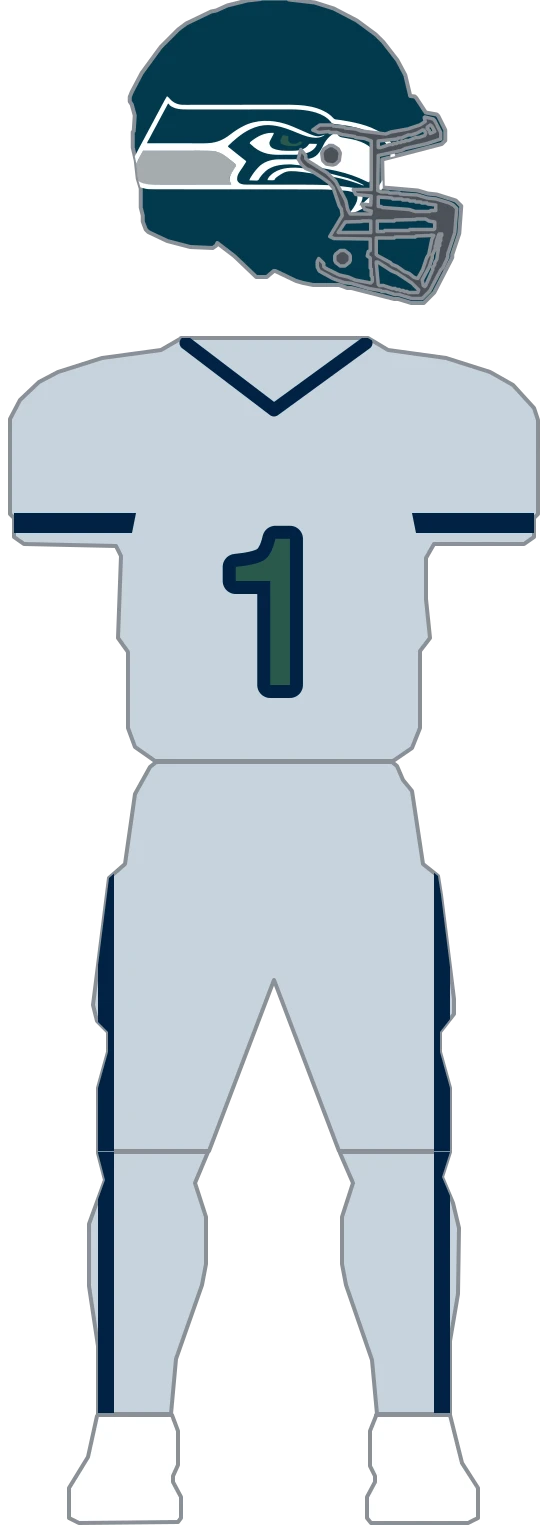
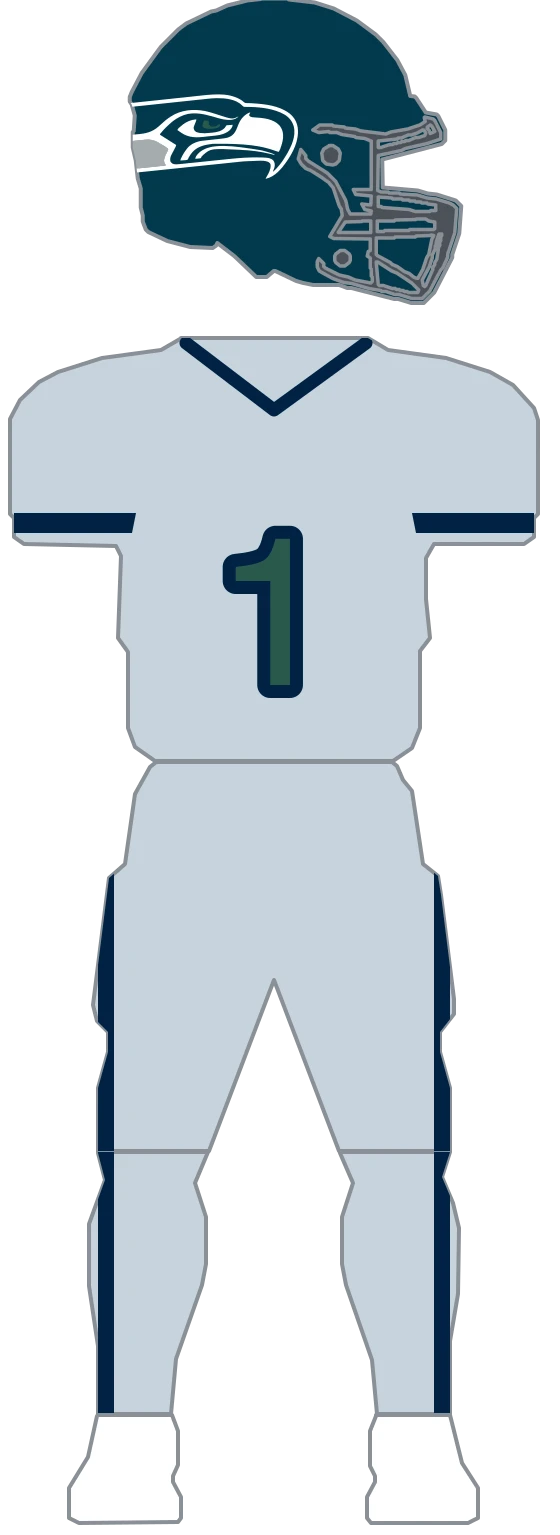
fix(uniforms): place the Seahawks decal as a wrapped mark, not a flat one
Three corrections from review, the first structural. A helmet decal wraps a
curved shell, so in a 2D side view its rear converges and disappears around the
back -- the mark is not fully visible. The previous pass scaled the whole logo
to fit inside the silhouette, which showed the entire tail and read wrong.

The mark is now authored wider than the space it occupies and overhangs the
shell's rear edge, with clip trimming it. The front anchors to a landmark
instead of a judgement: the beak tip reaches the facemask's left edge (x=476,
the min x of the facemask geometry), which is what sets the scale at 66% of
shell width. And it tilts -6 degrees, rising toward the front, where the
previous pass had it flat.

An affine transform cannot reproduce true foreshortening -- the tail should
compress toward the rear, not merely be cut off. Recorded in the module header
as a known limit of this renderer rather than left for the next reader to
rediscover.

Screenshots: https://res.cloudinary.com/fzunac6q/image/upload/v1788499758/bvjsh0u3j8nlkwrhxt7q.png

Changed region(s): [[0.2429, 0.0612, 0.6679, 0.1531]]

diff --git a/lib/uniforms/teams/seahawks.ts b/lib/uniforms/teams/seahawks.ts
@@ -38,11 +38,25 @@ export const SEAHAWKS_HELMET_CENTER_COLOR = '#2B507C';
 // live anywhere but the path data.
 //
 // PLACEMENT is measured from the GUD *helmet* composite, not from the logo, and is a separate
-// concern from linework: 80% of shell width, flush to the rear edge, 32% down, no rotation. The
-// mark reads as angled because of its own swept tail, not because a rotation is applied -- a
-// 0/-8/-15 degree sweep against the reference picked 0. Verified side by side against the helmet
-// reference, which is the acceptance check; matching the logo alone is what made the first pass
-// well-drawn and misplaced.
+// concern from linework -- getting the linework right and the placement wrong is what made the
+// first two passes well-drawn and obviously wrong. Three facts drive it, and the first is the one
+// that is easy to miss:
+//
+//   1. THE MARK IS NOT FULLY VISIBLE. A helmet decal wraps a curved shell, so in a 2D side view
+//      its rear converges and disappears around the back. The mark is therefore authored WIDER
+//      than the space it occupies and positioned to overhang the shell's rear edge (x=139), with
+//      `clip: true` trimming it. Scaling the whole logo to fit inside the silhouette -- which is
+//      the obvious thing to do -- shows the entire tail and reads wrong immediately.
+//   2. THE FRONT ANCHORS TO A LANDMARK. The beak tip reaches the facemask's left edge (x=476 in
+//      raw helmet space, the min x of the facemask geometry) and stops. That is a checkable
+//      target rather than a judgement, and it is what sets the scale: 66% of shell width.
+//   3. IT TILTS. -6 degrees, rising toward the front. Note an affine transform cannot reproduce
+//      the true foreshortening of a wrapped decal (the tail should compress toward the rear, not
+//      merely be cut off); -6 plus the rear clip is the closest approximation this renderer can
+//      express, and it is good enough at the sizes this art is consumed at.
+//
+// Final: 66% of shell width, right edge at x=476, top edge 30% down, -6 degrees. Verified side by
+// side against the helmet reference at matched scale, which is the acceptance check.
 //
 // Three layers now, painted grey -> white -> eye. The grey wing was MISSING from the previous
 // decal entirely: only the white channels and the eye were traced, so the mark lost the element
@@ -50,12 +64,12 @@ export const SEAHAWKS_HELMET_CENTER_COLOR = '#2B507C';
 // navy shell, which is why the counters read through. That is correct for home and away and is a
 // known gap on the teal rivalries shell, tracked separately.
 export const SEAHAWKS_HELMET_HAWK_PATH =
-  'M213.3,260.8C214.8,261.1 215.3,261.4 216.3,262.6C223.6,271.3 230.8,276.3 242.3,277.5C245.7,277.7 249.1,277.7 252.5,277.7C253.4,277.7 254.3,277.7 255.2,277.7C257.7,277.7 260.2,277.7 262.7,277.6C265.3,277.6 268.0,277.6 270.7,277.6C275.4,277.6 280.0,277.6 284.7,277.6C291.4,277.6 298.1,277.6 304.9,277.6C308.0,277.6 311.2,277.6 314.3,277.6C314.6,277.6 314.9,277.6 315.3,277.6C322.8,277.6 330.3,277.6 337.7,277.6C337.9,277.6 337.9,277.6 338.7,277.6C344.4,277.6 350.0,277.6 355.7,277.6C360.3,277.6 364.9,277.5 369.6,277.5C369.9,277.5 370.2,277.5 370.5,277.5C378.0,277.5 385.5,277.5 392.9,277.5C393.2,277.5 393.6,277.5 393.9,277.5C397.0,277.5 400.2,277.5 403.3,277.5C410.0,277.5 416.8,277.5 423.5,277.5C428.4,277.5 433.3,277.5 438.2,277.5C440.9,277.5 443.5,277.5 446.2,277.5C455.6,277.4 464.9,277.4 474.3,278.0C474.6,278.0 474.9,278.0 475.3,278.0C492.5,279.0 510.1,281.8 525.8,289.5C526.0,289.6 526.3,289.8 526.6,289.9C533.7,293.4 540.7,298.0 545.9,304.0C547.7,306.0 549.2,306.8 551.9,307.0C552.7,307.1 553.5,307.2 554.2,307.3C554.7,307.3 555.1,307.4 555.6,307.4C558.7,307.8 561.8,308.3 565.0,308.8C565.3,308.9 565.7,308.9 566.0,309.0C595.3,313.8 629.3,321.1 651.7,341.6C652.1,342.0 652.6,342.4 653.0,342.8C663.3,352.6 668.8,365.5 669.4,379.7C670.0,410.3 651.8,437.9 632.3,460.1C632.0,460.4 631.7,460.8 631.4,461.1C628.7,464.2 625.8,467.1 622.9,470.0C622.8,470.1 622.8,470.1 622.2,470.8C618.7,474.3 615.1,477.6 611.1,480.4C610.7,480.7 610.3,481.0 609.9,481.3C600.5,488.4 590.5,493.2 578.8,494.6C579.8,492.6 581.0,490.9 582.4,489.2C587.5,482.4 594.4,472.2 594.4,463.4C594.4,462.9 594.4,462.3 594.4,461.7C594.1,458.9 592.9,457.0 590.7,455.2C580.8,448.3 561.7,449.1 550.0,448.1C549.6,448.0 549.2,448.0 548.7,448.0C547.5,447.8 546.3,447.7 545.1,447.6C544.9,447.6 544.9,447.6 544.0,447.6C535.5,446.9 526.9,446.8 518.3,446.8C516.6,446.8 514.8,446.8 513.0,446.8C509.9,446.8 506.8,446.8 503.7,446.8C499.1,446.8 494.4,446.8 489.8,446.8C482.0,446.8 474.3,446.7 466.5,446.7C455.4,446.7 444.3,446.7 433.1,446.7C428.7,446.7 424.2,446.7 419.7,446.7C419.5,446.7 419.5,446.7 418.2,446.7C406.4,446.7 394.6,446.7 382.8,446.7C382.6,446.7 382.6,446.7 381.3,446.7C369.2,446.7 357.2,446.7 345.2,446.6C344.7,446.6 344.1,446.6 343.6,446.6C341.0,446.6 338.4,446.6 335.8,446.6C335.3,446.6 334.7,446.6 334.2,446.6C333.2,446.6 332.1,446.6 331.1,446.6C313.9,446.6 296.6,446.6 279.4,446.6C277.0,446.6 274.5,446.6 272.1,446.6C271.6,446.6 271.2,446.6 270.7,446.6C263.0,446.6 255.3,446.6 247.6,446.6C239.8,446.6 232.1,446.6 224.4,446.5C219.8,446.5 215.2,446.5 210.6,446.5C207.5,446.5 204.5,446.5 201.4,446.5C199.6,446.5 197.9,446.5 196.1,446.5C174.5,446.5 174.5,446.5 165.5,444.2C165.2,444.1 165.0,444.0 164.7,444.0C155.5,441.6 148.3,436.7 143.4,428.4C138.5,419.7 138.1,410.9 140.7,401.4C142.7,394.5 145.6,387.9 148.7,381.4C148.8,381.2 148.8,381.2 149.3,380.3C151.5,375.7 153.8,371.3 156.2,366.9C158.3,363.1 160.3,359.3 162.3,355.5C164.8,350.9 167.3,346.2 169.7,341.6C172.1,337.2 174.5,332.8 176.8,328.4C179.4,323.5 182.0,318.5 184.7,313.6C186.1,310.9 187.6,308.1 189.1,305.4C189.2,305.1 189.4,304.8 189.6,304.5C190.2,303.2 190.9,302.0 191.5,300.8C193.7,296.7 195.9,292.6 198.1,288.5C199.7,285.7 201.2,282.9 202.6,280.0C204.4,276.5 206.3,273.1 208.1,269.7C208.3,269.3 208.5,268.9 208.8,268.5C210.2,265.9 211.7,263.3 213.3,260.8ZM215.5,275.4C215.3,275.8 215.0,276.2 214.8,276.6C207.7,290.1 207.7,290.1 204.9,295.2C202.6,299.3 200.4,303.5 198.2,307.6C195.8,312.2 193.4,316.7 191.0,321.2C189.0,324.7 187.1,328.3 185.2,331.8C182.8,336.4 180.4,340.9 178.0,345.5C177.7,346.0 177.4,346.4 177.2,346.9C176.9,347.4 176.7,347.8 176.5,348.3C176.4,348.4 176.4,348.4 175.8,349.4C175.4,350.2 175.0,350.9 174.5,351.6C173.9,352.7 173.9,352.7 173.9,354.5C189.6,354.5 205.2,354.5 220.9,354.5C222.7,354.5 224.6,354.5 226.4,354.5C226.8,354.5 227.2,354.5 227.6,354.5C233.5,354.5 239.5,354.5 245.4,354.5C251.5,354.5 257.7,354.5 263.8,354.6C267.6,354.6 271.3,354.6 275.1,354.6C277.7,354.6 280.3,354.6 282.9,354.6C284.4,354.6 285.9,354.6 287.4,354.6C308.9,354.6 322.5,350.4 339.6,337.3C347.5,331.2 355.9,325.4 364.9,320.9C365.2,320.7 365.5,320.5 365.8,320.4C391.7,306.9 422.3,307.2 449.7,315.6C460.2,318.9 470.2,323.4 480.2,327.8C513.6,342.7 513.6,342.7 528.3,337.6C528.5,337.6 528.5,337.6 529.3,337.2C525.1,341.7 518.6,343.2 512.6,343.5C499.3,343.7 487.5,339.2 475.4,334.2C472.6,333.1 469.8,331.9 467.1,330.8C466.8,330.7 466.5,330.6 466.1,330.4C445.0,321.9 421.4,314.6 398.5,320.0C398.3,320.0 398.3,320.0 397.3,320.3C391.3,321.7 385.5,323.9 379.9,326.6C379.5,326.8 379.2,326.9 378.8,327.1C370.3,331.2 362.5,336.6 355.1,342.5C354.8,342.8 354.4,343.1 354.0,343.4C347.6,348.4 341.5,354.0 335.7,359.8C335.7,360.4 335.7,360.9 335.7,361.5C336.6,362.4 337.4,363.0 338.3,363.7C338.9,364.2 339.5,364.6 340.1,365.0C340.4,365.2 340.7,365.5 341.0,365.7C342.5,366.9 343.9,368.1 345.4,369.3C347.6,371.1 349.8,372.8 352.0,374.6C354.3,376.3 356.5,378.1 358.7,379.9C363.0,383.4 367.4,386.9 371.9,390.3C371.6,391.8 371.0,392.9 370.2,394.2C369.9,394.6 369.6,395.1 369.3,395.5C369.0,396.0 368.7,396.4 368.4,396.9C368.1,397.4 367.8,397.9 367.5,398.4C365.8,401.1 364.0,403.7 362.3,406.3C362.2,406.4 362.2,406.4 361.7,407.1C360.9,408.4 360.0,409.7 359.1,410.9C355.3,416.7 353.3,420.9 353.8,427.8C354.5,430.6 356.4,432.8 358.7,434.5C363.7,437.3 369.7,437.3 375.3,437.2C375.9,437.2 376.6,437.2 377.2,437.2C378.9,437.3 380.6,437.3 382.3,437.2C384.2,437.2 386.1,437.3 387.9,437.3C391.2,437.3 394.4,437.3 397.6,437.3C402.3,437.3 407.0,437.3 411.6,437.3C419.3,437.3 426.9,437.3 434.5,437.3C435.0,437.3 435.4,437.3 435.9,437.3C439.1,437.3 442.4,437.3 445.6,437.3C449.2,437.3 452.9,437.4 456.6,437.4C457.0,437.4 457.5,437.4 457.9,437.4C465.5,437.4 473.1,437.4 480.7,437.4C484.9,437.4 489.2,437.4 493.4,437.4C521.5,437.4 549.2,438.2 577.0,442.3C577.9,442.4 578.7,442.5 579.5,442.7C587.4,443.8 596.7,445.4 602.0,452.0C604.8,456.3 605.0,461.1 604.2,466.1C603.3,469.6 601.8,472.7 600.0,475.8C599.5,476.6 599.1,477.4 598.7,478.2C598.8,478.5 599.0,478.8 599.1,479.1C602.0,477.1 604.7,475.0 607.3,472.6C608.2,471.8 609.1,471.0 610.0,470.2C612.3,468.2 614.5,466.1 616.6,463.9C617.0,463.5 617.4,463.1 617.8,462.7C620.1,460.4 622.2,458.1 624.3,455.7C624.7,455.3 625.1,454.8 625.4,454.4C629.1,450.1 632.5,445.6 635.8,441.1C636.0,440.8 636.2,440.5 636.5,440.2C649.9,421.9 663.3,399.2 660.1,375.7C658.2,362.8 651.1,352.0 640.7,344.2C617.6,327.7 586.3,320.5 558.5,317.1C558.1,317.1 557.6,317.0 557.2,316.9C555.0,316.7 552.8,316.4 550.7,316.2C549.9,316.1 549.1,316.0 548.3,315.9C547.9,315.9 547.6,315.8 547.2,315.8C543.9,315.4 542.3,313.5 540.4,310.9C526.6,294.3 501.3,289.5 481.1,287.6C474.2,286.9 467.2,286.8 460.2,286.8C459.3,286.8 458.4,286.8 457.4,286.8C454.9,286.8 452.4,286.8 449.9,286.8C447.1,286.8 444.4,286.8 441.7,286.8C437.0,286.8 432.2,286.8 427.5,286.8C420.4,286.8 413.2,286.8 406.1,286.8C403.2,286.8 400.3,286.8 397.5,286.8C397.1,286.8 396.8,286.8 396.5,286.8C388.9,286.8 381.3,286.9 373.7,286.9C373.4,286.9 373.1,286.9 372.7,286.9C365.0,286.9 357.3,286.9 349.5,286.9C349.2,286.9 348.9,286.9 348.5,286.9C346.8,286.9 345.2,286.9 343.5,286.9C343.1,286.9 342.8,286.9 342.5,286.9C341.8,286.9 341.1,286.9 340.5,286.9C329.4,286.9 318.3,286.9 307.2,286.9C305.7,286.9 304.1,286.9 302.5,286.9C302.2,286.9 301.9,286.9 301.6,286.9C296.6,286.9 291.7,286.9 286.8,286.9C281.8,286.9 276.8,286.9 271.8,286.9C269.1,286.9 266.4,286.9 263.8,286.9C261.3,286.9 258.8,286.9 256.4,286.9C255.5,286.9 254.6,286.9 253.7,286.9C242.1,287.0 229.0,286.4 219.4,278.9C218.7,278.0 218.0,277.0 217.3,276.0C217.2,275.9 217.2,275.9 216.8,275.4C216.4,275.4 215.9,275.4 215.5,275.4ZM165.5,369.5C164.7,371.1 163.8,372.6 163.0,374.2C162.7,374.6 162.5,375.0 162.2,375.5C145.6,406.0 145.6,406.0 149.1,418.9C151.3,425.2 154.8,429.6 160.7,432.7C168.3,436.3 176.6,436.7 184.9,436.9C185.3,436.9 185.6,436.9 186.0,437.0C193.2,437.2 200.5,437.2 207.7,437.2C209.5,437.2 211.3,437.2 213.2,437.2C216.3,437.2 219.4,437.2 222.5,437.2C227.0,437.2 231.5,437.2 236.0,437.2C243.3,437.2 250.7,437.2 258.0,437.2C265.1,437.2 272.2,437.1 279.3,437.1C279.7,437.1 280.2,437.1 280.6,437.1C282.8,437.1 285.0,437.1 287.2,437.1C305.4,437.1 323.7,437.1 341.9,437.1C341.9,435.4 341.2,434.5 340.3,433.0C338.5,429.4 338.2,426.4 339.1,422.5C341.0,416.4 344.5,410.8 347.8,405.4C348.0,405.2 348.0,405.2 348.6,404.2C349.1,403.5 349.5,402.7 350.0,402.0C350.2,401.6 350.5,401.3 350.7,400.9C350.8,400.8 350.8,400.8 351.2,400.0C351.7,398.8 351.6,398.1 351.2,396.9C350.3,396.0 349.4,395.2 348.4,394.4C348.1,394.2 347.9,394.0 347.6,393.7C345.2,391.8 342.8,389.8 340.4,388.0C339.0,386.9 337.7,385.9 336.4,384.8C324.7,375.3 315.2,370.2 299.8,369.7C299.7,369.7 299.7,369.7 298.9,369.7C292.3,369.5 285.8,369.4 279.2,369.4C277.9,369.4 276.7,369.4 275.4,369.4C272.8,369.4 270.1,369.4 267.4,369.4C263.6,369.5 259.7,369.5 255.9,369.5C249.6,369.5 243.4,369.5 237.1,369.5C231.1,369.5 225.0,369.5 219.0,369.5C218.6,369.5 218.2,369.5 217.8,369.5C215.9,369.5 214.1,369.5 212.2,369.5C196.6,369.5 181.1,369.5 165.5,369.5ZM558.9,330.6C558.4,331.8 557.7,332.8 556.9,333.8C556.0,335.0 555.8,335.5 555.5,337.1C555.9,339.0 556.4,339.6 558.0,340.8C561.4,342.8 565.3,343.2 569.1,343.8C589.0,347.0 612.8,352.0 625.7,368.9C632.0,378.6 633.5,389.2 631.4,400.4C629.6,408.8 626.5,416.5 622.7,424.2C622.5,424.6 622.3,425.0 622.1,425.4C620.8,427.9 619.3,430.3 617.7,432.7C616.0,432.4 614.7,431.9 613.1,431.2C612.7,431.0 612.2,430.7 611.8,430.5C611.3,430.3 610.8,430.0 610.3,429.8C576.6,413.4 539.3,404.0 461.5,396.8C461.0,396.8 460.6,396.8 460.2,396.8C442.6,396.8 423.5,398.6 409.9,411.0C409.7,411.2 409.5,411.4 409.3,411.7C405.7,414.9 402.7,418.5 399.8,422.4C399.7,422.6 399.7,422.6 399.1,423.3C398.5,424.3 398.5,424.3 397.9,425.5C397.2,426.9 396.6,427.7 395.4,428.7C392.5,429.5 389.5,429.1 386.5,429.0C385.7,429.0 384.9,429.0 384.1,428.9C382.1,428.9 380.1,428.8 378.1,428.7C378.5,427.0 379.3,425.6 380.1,424.1C380.3,423.8 380.5,423.5 380.6,423.3C384.9,416.0 389.9,409.2 395.8,403.1C396.1,402.8 396.3,402.5 396.6,402.2C406.5,391.7 421.1,387.1 435.2,386.7C436.7,386.7 438.2,386.7 439.7,386.7C440.6,386.7 441.5,386.7 442.3,386.7C443.2,386.7 444.2,386.6 445.1,386.6C447.0,386.6 449.0,386.6 450.9,386.6C456.4,386.6 461.9,386.6 467.4,386.6C470.4,386.5 473.5,386.5 476.5,386.5C478.1,386.5 479.7,386.5 481.3,386.5C493.5,386.5 504.9,386.3 514.1,377.3C519.3,371.9 522.9,365.1 526.2,358.4C532.5,345.7 541.9,335.8 555.5,331.0C557.1,330.6 557.1,330.6 558.9,330.6ZM423.6,333.7C424.0,333.7 424.3,333.7 424.7,333.7C425.5,333.7 426.4,333.7 427.2,333.7C426.9,335.6 426.2,337.1 425.3,338.8C425.0,339.3 424.7,339.9 424.4,340.4C423.9,341.3 423.5,342.2 423.0,343.0C417.7,353.0 417.7,353.0 419.1,358.1C420.3,361.3 422.3,363.2 425.3,364.8C430.7,367.3 436.7,368.4 442.7,369.1C442.8,369.1 442.8,369.1 443.7,369.2C448.5,369.6 453.2,369.6 458.0,369.6C459.5,369.6 461.0,369.6 462.5,369.6C473.4,369.7 485.1,368.7 493.6,361.0C494.9,359.6 496.0,358.2 497.1,356.7C497.9,355.8 497.9,355.8 499.2,355.4C500.1,355.4 500.1,355.4 501.2,355.5C503.7,355.8 506.2,355.8 508.8,355.8C509.2,355.8 509.7,355.8 510.1,355.8C511.2,355.8 512.3,355.8 513.4,355.8C512.4,361.2 508.1,365.8 503.8,368.9C493.6,375.6 482.0,377.5 470.0,377.5C469.5,377.5 469.1,377.5 468.6,377.5C467.1,377.5 465.6,377.5 464.1,377.5C463.0,377.5 462.0,377.5 460.9,377.5C458.7,377.5 456.5,377.5 454.3,377.5C451.4,377.5 448.6,377.5 445.8,377.5C443.6,377.6 441.4,377.6 439.2,377.6C438.2,377.6 437.2,377.6 436.1,377.6C414.7,377.6 398.2,372.9 382.4,357.8C381.3,356.8 380.2,355.8 379.0,354.9C379.1,353.5 379.3,352.8 380.3,351.8C381.7,350.7 383.0,349.7 384.3,348.7C384.5,348.5 384.8,348.4 385.0,348.2C396.1,339.8 409.5,333.5 423.6,333.7ZM575.3,424.4C576.1,424.7 576.9,425.0 577.8,425.3C588.0,428.9 598.1,433.1 607.5,438.4C605.9,439.0 605.0,438.7 603.4,438.1C602.9,437.9 602.4,437.8 601.9,437.6C601.4,437.4 600.8,437.2 600.3,437.0C599.2,436.6 598.0,436.2 596.9,435.7C596.6,435.6 596.3,435.5 596.0,435.4C574.0,427.4 551.0,422.1 528.0,418.6C527.7,418.5 527.3,418.5 527.0,418.4C454.9,407.2 454.9,407.2 434.9,420.8C430.2,424.3 430.2,424.3 429.5,426.0C428.9,427.0 428.6,427.6 427.6,428.3C425.4,428.7 423.1,428.6 420.9,428.5C420.2,428.5 419.6,428.4 419.0,428.4C417.4,428.4 415.9,428.3 414.4,428.3C415.8,421.9 422.9,416.0 428.1,412.6C458.1,394.0 508.0,406.3 575.3,424.4Z';
+  'M90.5,265.4C91.8,265.6 92.2,265.7 93.1,266.7C99.9,273.2 106.2,276.7 115.7,276.6C118.6,276.6 121.4,276.2 124.1,275.9C124.9,275.8 125.6,275.7 126.4,275.7C128.4,275.5 130.5,275.2 132.5,275.0C134.7,274.8 136.9,274.5 139.1,274.3C142.9,273.9 146.7,273.5 150.5,273.1C156.1,272.5 161.6,271.9 167.1,271.3C169.7,271.1 172.3,270.8 174.9,270.5C175.1,270.5 175.4,270.5 175.7,270.4C181.8,269.8 187.9,269.1 194.1,268.5C194.2,268.5 194.2,268.5 194.9,268.4C199.5,267.9 204.2,267.4 208.8,266.9C212.6,266.5 216.4,266.1 220.2,265.7C220.5,265.7 220.7,265.7 221.0,265.6C227.1,265.0 233.2,264.3 239.4,263.7C239.6,263.6 239.9,263.6 240.1,263.6C242.7,263.3 245.3,263.0 247.9,262.8C253.4,262.2 258.9,261.6 264.4,261.0C268.5,260.6 272.5,260.2 276.5,259.7C278.7,259.5 280.9,259.3 283.0,259.0C290.7,258.2 298.4,257.4 306.2,257.0C306.4,257.0 306.7,257.0 307.0,257.0C321.2,256.3 335.9,257.0 349.4,262.0C349.6,262.1 349.9,262.2 350.1,262.3C356.2,264.5 362.4,267.8 367.2,272.2C368.8,273.7 370.1,274.2 372.3,274.1C373.0,274.1 373.6,274.2 374.3,274.2C374.7,274.2 375.0,274.2 375.4,274.2C378.0,274.2 380.6,274.4 383.2,274.5C383.5,274.5 383.8,274.6 384.1,274.6C408.5,276.0 437.1,279.1 457.2,294.0C457.6,294.3 458.0,294.5 458.4,294.8C467.6,302.0 473.3,312.1 475.0,323.6C478.1,348.8 465.6,373.0 451.5,392.8C451.3,393.1 451.1,393.4 450.9,393.7C448.9,396.5 446.8,399.1 444.7,401.8C444.6,401.9 444.6,401.9 444.1,402.5C441.5,405.6 438.9,408.6 435.8,411.4C435.5,411.6 435.3,411.9 435.0,412.2C427.9,418.8 420.1,423.6 410.6,425.7C411.3,424.0 412.1,422.5 413.0,421.0C416.7,415.0 421.4,406.0 420.7,398.8C420.7,398.4 420.6,397.9 420.6,397.4C420.1,395.1 418.9,393.7 417.0,392.4C408.2,387.6 392.7,389.9 383.0,390.1C382.6,390.1 382.3,390.1 381.9,390.1C380.9,390.1 379.9,390.1 378.9,390.1C378.7,390.1 378.7,390.1 378.0,390.2C370.9,390.3 363.9,391.0 356.9,391.7C355.4,391.9 353.9,392.0 352.5,392.2C349.9,392.5 347.4,392.7 344.8,393.0C341.0,393.4 337.3,393.8 333.5,394.2C327.1,394.8 320.7,395.5 314.3,396.2C305.2,397.1 296.1,398.1 287.0,399.0C283.3,399.4 279.6,399.8 276.0,400.2C275.8,400.2 275.8,400.2 274.7,400.3C265.0,401.3 255.4,402.3 245.7,403.3C245.5,403.4 245.5,403.4 244.4,403.5C234.5,404.5 224.6,405.5 214.8,406.6C214.3,406.6 213.9,406.6 213.5,406.7C211.3,406.9 209.2,407.1 207.1,407.4C206.6,407.4 206.2,407.5 205.8,407.5C204.9,407.6 204.1,407.7 203.2,407.8C189.1,409.2 174.9,410.7 160.8,412.2C158.8,412.4 156.8,412.6 154.8,412.8C154.4,412.8 154.0,412.9 153.6,412.9C147.3,413.6 141.0,414.2 134.7,414.9C128.3,415.6 122.0,416.2 115.6,416.9C111.9,417.3 108.1,417.7 104.3,418.1C101.8,418.3 99.3,418.6 96.8,418.9C95.3,419.0 93.9,419.2 92.5,419.3C74.7,421.2 74.7,421.2 67.2,420.0C66.9,420.0 66.7,420.0 66.4,419.9C58.7,418.8 52.4,415.3 47.7,409.0C42.9,402.3 41.8,395.1 43.1,387.1C44.1,381.2 45.9,375.6 48.0,370.0C48.0,369.8 48.0,369.8 48.3,369.0C49.7,365.1 51.3,361.3 52.9,357.4C54.2,354.2 55.6,350.9 56.9,347.6C58.5,343.5 60.1,339.5 61.8,335.5C63.3,331.7 64.9,327.9 66.4,324.1C68.1,319.8 69.9,315.5 71.6,311.3C72.6,308.9 73.5,306.5 74.5,304.1C74.6,303.8 74.7,303.6 74.8,303.3C75.3,302.3 75.7,301.2 76.1,300.1C77.5,296.6 79.0,293.0 80.5,289.5C81.5,287.1 82.5,284.6 83.5,282.1C84.6,279.1 85.8,276.1 87.1,273.2C87.2,272.9 87.3,272.5 87.5,272.2C88.4,269.9 89.4,267.7 90.5,265.4ZM93.6,277.2C93.4,277.5 93.3,277.9 93.1,278.3C88.5,289.9 88.5,289.9 86.6,294.4C85.1,298.0 83.6,301.6 82.2,305.2C80.6,309.1 79.1,313.0 77.4,316.9C76.1,320.0 74.9,323.1 73.6,326.1C72.1,330.1 70.5,334.0 68.8,338.0C68.7,338.4 68.5,338.8 68.3,339.2C68.2,339.6 68.0,340.0 67.9,340.4C67.8,340.5 67.8,340.5 67.5,341.4C67.2,342.0 66.9,342.7 66.5,343.3C66.2,344.2 66.2,344.2 66.3,345.7C79.2,344.4 92.0,343.0 104.9,341.7C106.4,341.5 107.9,341.4 109.4,341.2C109.7,341.2 110.0,341.1 110.3,341.1C115.2,340.6 120.1,340.1 125.0,339.6C130.0,339.1 135.0,338.5 140.1,338.0C143.1,337.7 146.2,337.4 149.3,337.0C151.5,336.8 153.6,336.6 155.7,336.4C156.9,336.3 158.2,336.1 159.4,336.0C177.1,334.2 187.9,329.5 200.8,317.3C206.7,311.6 213.1,306.2 220.1,301.7C220.3,301.5 220.6,301.3 220.8,301.2C240.9,287.9 266.0,285.5 289.2,290.0C298.1,291.8 306.7,294.6 315.3,297.4C344.0,306.8 344.0,306.8 355.6,301.3C355.8,301.2 355.8,301.2 356.4,300.9C353.4,304.9 348.1,306.7 343.3,307.5C332.4,308.8 322.3,306.1 311.9,303.1C309.5,302.4 307.2,301.7 304.8,301.0C304.5,300.9 304.3,300.9 304.0,300.8C285.9,295.6 265.9,291.6 247.6,298.0C247.4,298.1 247.4,298.1 246.7,298.4C241.8,300.1 237.3,302.4 232.9,305.1C232.6,305.3 232.4,305.4 232.1,305.6C225.5,309.7 219.5,314.8 214.0,320.3C213.7,320.5 213.4,320.8 213.1,321.1C208.3,325.8 203.7,330.8 199.5,336.1C199.5,336.6 199.6,337.1 199.6,337.5C200.4,338.1 201.2,338.6 202.0,339.1C202.5,339.4 203.0,339.7 203.5,340.0C203.8,340.2 204.1,340.3 204.3,340.5C205.7,341.3 207.0,342.2 208.3,343.1C210.2,344.3 212.2,345.6 214.2,346.8C216.2,348.1 218.1,349.3 220.1,350.6C224.0,353.2 227.9,355.6 231.9,358.0C231.8,359.3 231.3,360.2 230.8,361.4C230.6,361.8 230.4,362.1 230.2,362.5C230.0,362.9 229.8,363.3 229.6,363.8C229.3,364.2 229.1,364.6 228.9,365.0C227.7,367.4 226.5,369.7 225.3,372.0C225.2,372.1 225.2,372.1 224.9,372.7C224.3,373.8 223.7,374.9 223.1,376.1C220.5,381.1 219.2,384.7 220.2,390.4C221.1,392.6 222.8,394.2 224.8,395.4C229.1,397.3 234.1,396.7 238.7,396.2C239.2,396.2 239.7,396.1 240.2,396.1C241.6,395.9 243.0,395.8 244.5,395.6C246.0,395.5 247.5,395.3 249.0,395.2C251.7,394.9 254.3,394.6 257.0,394.3C260.8,393.9 264.7,393.5 268.5,393.2C274.8,392.5 281.0,391.9 287.3,391.2C287.6,391.2 288.0,391.1 288.4,391.1C291.1,390.8 293.7,390.5 296.4,390.3C299.4,390.0 302.4,389.6 305.4,389.3C305.7,389.3 306.1,389.3 306.5,389.2C312.7,388.6 318.9,387.9 325.2,387.3C328.6,386.9 332.1,386.6 335.6,386.2C358.7,383.8 381.4,382.0 404.6,383.0C405.3,383.0 406.0,383.1 406.7,383.1C413.2,383.3 421.1,383.9 426.0,388.8C428.7,392.1 429.2,396.0 428.9,400.2C428.5,403.1 427.5,405.8 426.3,408.5C426.0,409.2 425.8,409.9 425.5,410.6C425.6,410.8 425.8,411.1 425.9,411.3C428.1,409.4 430.1,407.5 432.1,405.3C432.7,404.5 433.4,403.8 434.1,403.1C435.8,401.2 437.4,399.3 439.0,397.3C439.3,396.9 439.6,396.6 439.9,396.2C441.5,394.2 443.1,392.1 444.6,389.9C444.8,389.5 445.1,389.1 445.4,388.7C448.0,384.9 450.4,381.0 452.8,376.9C452.9,376.7 453.1,376.4 453.2,376.2C462.6,360.0 471.7,340.2 467.1,321.2C464.3,310.8 457.6,302.5 448.4,297.0C428.0,285.5 401.8,282.3 378.6,281.9C378.3,281.9 377.9,281.9 377.5,281.9C375.7,281.8 373.9,281.8 372.1,281.8C371.5,281.8 370.8,281.8 370.2,281.8C369.9,281.8 369.6,281.8 369.3,281.8C366.5,281.7 365.1,280.3 363.2,278.4C350.5,265.9 329.3,264.2 312.6,264.3C306.8,264.4 301.1,264.9 295.4,265.5C294.6,265.6 293.8,265.6 293.1,265.7C291.0,265.9 289.0,266.2 286.9,266.4C284.6,266.6 282.4,266.9 280.2,267.1C276.3,267.5 272.4,267.9 268.6,268.3C262.7,268.9 256.8,269.6 251.0,270.2C248.6,270.4 246.2,270.7 243.9,270.9C243.6,271.0 243.4,271.0 243.1,271.0C236.9,271.7 230.6,272.3 224.4,273.0C224.2,273.0 223.9,273.0 223.6,273.1C217.3,273.8 210.9,274.4 204.6,275.1C204.3,275.1 204.0,275.2 203.7,275.2C202.3,275.3 201.0,275.5 199.6,275.6C199.3,275.7 199.1,275.7 198.8,275.7C198.2,275.8 197.7,275.8 197.1,275.9C188.0,276.8 178.9,277.8 169.9,278.8C168.6,278.9 167.3,279.0 166.0,279.2C165.7,279.2 165.5,279.2 165.2,279.3C161.2,279.7 157.1,280.1 153.1,280.5C149.0,281.0 144.9,281.4 140.8,281.8C138.6,282.1 136.4,282.3 134.2,282.5C132.2,282.8 130.1,283.0 128.1,283.2C127.4,283.3 126.7,283.3 125.9,283.4C116.4,284.5 105.6,285.1 97.1,279.8C96.4,279.1 95.8,278.4 95.2,277.6C95.1,277.5 95.1,277.5 94.7,277.1C94.3,277.1 93.9,277.2 93.6,277.2ZM60.7,358.8C60.1,360.1 59.6,361.5 59.0,362.8C58.9,363.2 58.7,363.6 58.5,364.0C47.5,390.4 47.5,390.4 51.5,400.7C53.9,405.7 57.1,409.0 62.2,411.0C68.7,413.3 75.6,412.9 82.5,412.4C82.7,412.4 83.0,412.4 83.3,412.3C89.3,411.9 95.2,411.3 101.2,410.6C102.7,410.5 104.1,410.3 105.6,410.2C108.2,409.9 110.7,409.6 113.3,409.4C117.0,409.0 120.7,408.6 124.4,408.2C130.4,407.6 136.4,406.9 142.4,406.3C148.2,405.7 154.1,405.1 159.9,404.4C160.2,404.4 160.6,404.4 161.0,404.3C162.8,404.1 164.6,404.0 166.4,403.8C181.4,402.2 196.3,400.6 211.2,399.0C211.1,397.6 210.5,396.9 209.6,395.8C207.8,393.0 207.3,390.6 207.7,387.2C208.7,382.1 211.1,377.2 213.4,372.5C213.5,372.3 213.5,372.3 213.9,371.5C214.2,370.8 214.6,370.1 214.9,369.5C215.0,369.2 215.2,368.9 215.3,368.6C215.4,368.4 215.4,368.4 215.7,367.8C216.0,366.7 215.8,366.2 215.4,365.2C214.6,364.6 213.8,364.0 212.9,363.4C212.7,363.3 212.4,363.1 212.2,362.9C210.1,361.5 207.9,360.2 205.8,358.8C204.6,358.1 203.4,357.3 202.2,356.6C191.8,349.8 183.5,346.4 170.9,347.3C170.8,347.3 170.8,347.3 170.2,347.4C164.7,347.8 159.4,348.3 154.0,348.9C152.9,349.0 151.9,349.1 150.9,349.2C148.7,349.5 146.5,349.7 144.3,349.9C141.2,350.3 138.0,350.6 134.9,350.9C129.7,351.5 124.6,352.0 119.5,352.5C114.5,353.1 109.5,353.6 104.6,354.1C104.3,354.2 103.9,354.2 103.6,354.2C102.1,354.4 100.5,354.5 99.0,354.7C86.2,356.1 73.5,357.4 60.7,358.8ZM380.1,292.9C379.8,294.0 379.3,294.8 378.7,295.7C378.1,296.8 378.0,297.2 377.9,298.5C378.4,300.1 378.9,300.5 380.3,301.3C383.2,302.7 386.5,302.7 389.7,302.9C406.2,303.8 426.2,305.8 438.2,318.6C444.3,326.0 446.4,334.6 445.6,344.0C444.8,351.0 443.0,357.6 440.5,364.2C440.4,364.5 440.3,364.9 440.2,365.2C439.3,367.4 438.3,369.5 437.2,371.6C435.8,371.5 434.6,371.2 433.3,370.8C432.9,370.6 432.5,370.5 432.1,370.3C431.7,370.2 431.3,370.0 430.9,369.9C401.8,359.3 370.3,354.8 305.9,355.6C305.5,355.7 305.2,355.7 304.8,355.7C290.4,357.3 274.9,360.4 264.8,371.8C264.7,371.9 264.5,372.1 264.3,372.3C261.7,375.3 259.5,378.5 257.5,382.0C257.4,382.1 257.4,382.1 257.0,382.8C256.6,383.6 256.6,383.6 256.2,384.7C255.7,385.9 255.4,386.6 254.4,387.5C252.1,388.4 249.6,388.4 247.2,388.5C246.5,388.6 245.9,388.6 245.2,388.7C243.5,388.8 241.9,388.9 240.3,389.0C240.4,387.6 240.9,386.4 241.5,385.0C241.6,384.8 241.7,384.6 241.8,384.3C244.7,377.9 248.3,372.0 252.6,366.5C252.7,366.2 252.9,365.9 253.1,365.7C260.3,356.2 271.9,351.2 283.5,349.6C284.7,349.5 285.9,349.3 287.2,349.2C287.9,349.1 288.6,349.0 289.3,349.0C290.1,348.9 290.8,348.8 291.6,348.7C293.2,348.5 294.7,348.4 296.3,348.2C300.8,347.7 305.4,347.2 309.9,346.7C312.4,346.4 314.9,346.2 317.4,345.9C318.7,345.8 320.0,345.6 321.3,345.5C331.3,344.4 340.6,343.3 347.4,335.1C351.2,330.2 353.6,324.3 355.7,318.5C359.8,307.6 366.6,298.7 377.3,293.6C378.7,293.1 378.7,293.1 380.1,292.9ZM269.4,307.1C269.7,307.1 270.0,307.0 270.3,307.0C270.9,306.9 271.6,306.9 272.3,306.8C272.3,308.4 271.8,309.7 271.2,311.1C271.0,311.6 270.8,312.1 270.6,312.6C270.3,313.3 270.0,314.1 269.7,314.8C266.2,323.5 266.2,323.5 267.8,327.6C269.0,330.1 270.9,331.5 273.4,332.5C278.1,334.0 283.1,334.5 288.1,334.5C288.2,334.5 288.2,334.5 289.0,334.5C292.9,334.4 296.8,334.0 300.7,333.6C301.9,333.5 303.1,333.4 304.4,333.3C313.4,332.4 322.8,330.5 329.2,323.5C330.1,322.3 330.9,321.0 331.7,319.7C332.2,318.8 332.2,318.8 333.3,318.4C334.1,318.3 334.1,318.3 334.9,318.4C337.0,318.4 339.1,318.2 341.2,317.9C341.5,317.9 341.9,317.8 342.3,317.8C343.2,317.7 344.1,317.6 344.9,317.5C344.6,322.0 341.4,326.2 338.2,329.1C330.4,335.4 321.1,338.0 311.2,339.1C310.8,339.1 310.5,339.2 310.1,339.2C308.8,339.3 307.6,339.5 306.4,339.6C305.5,339.7 304.6,339.8 303.8,339.9C302.0,340.1 300.1,340.3 298.3,340.4C296.0,340.7 293.7,340.9 291.4,341.2C289.6,341.4 287.8,341.6 286.0,341.8C285.1,341.8 284.3,341.9 283.4,342.0C265.9,343.9 251.9,341.5 237.7,330.5C236.7,329.7 235.7,329.0 234.6,328.4C234.6,327.2 234.7,326.6 235.4,325.7C236.4,324.7 237.4,323.8 238.4,322.8C238.6,322.7 238.8,322.5 239.0,322.3C247.3,314.5 257.8,308.2 269.4,307.1ZM401.6,368.5C402.4,368.7 403.1,368.8 403.8,369.0C412.5,371.1 421.1,373.6 429.3,377.2C428.0,377.8 427.2,377.7 425.9,377.3C425.5,377.2 425.0,377.1 424.6,377.0C424.2,376.9 423.7,376.7 423.3,376.6C422.3,376.4 421.3,376.1 420.4,375.9C420.1,375.8 419.9,375.8 419.6,375.7C400.9,371.1 381.6,368.7 362.3,367.8C362.1,367.7 361.8,367.7 361.5,367.7C301.4,364.7 301.4,364.7 286.2,377.6C282.6,380.9 282.6,380.9 282.1,382.3C281.8,383.2 281.5,383.7 280.8,384.4C279.0,384.9 277.2,385.0 275.3,385.1C274.8,385.2 274.3,385.2 273.7,385.3C272.5,385.4 271.2,385.4 270.0,385.5C270.6,380.2 275.9,374.7 279.9,371.5C302.8,353.7 344.9,359.4 401.6,368.5Z';
 // The wolf-grey wing at the lower rear of the mark, under the white keyline.
 export const SEAHAWKS_HELMET_HAWK_GREY_PATH =
-  'M167.7,369.4C168.2,369.4 168.7,369.4 169.2,369.4C169.4,369.4 169.4,369.4 170.8,369.4C171.3,369.4 171.9,369.4 172.4,369.4C174.0,369.4 175.5,369.4 177.0,369.4C178.7,369.4 180.4,369.4 182.0,369.4C185.3,369.4 188.5,369.4 191.8,369.4C194.4,369.4 197.1,369.4 199.7,369.4C199.9,369.4 199.9,369.4 200.8,369.4C201.6,369.4 202.4,369.4 203.1,369.4C210.3,369.4 217.5,369.4 224.7,369.4C230.8,369.4 237.0,369.4 243.1,369.4C250.3,369.4 257.4,369.4 264.6,369.4C265.3,369.4 266.1,369.4 266.9,369.4C267.0,369.4 267.0,369.4 268.0,369.4C270.6,369.4 273.3,369.4 275.9,369.4C279.1,369.4 282.3,369.4 285.6,369.4C287.2,369.4 288.8,369.4 290.5,369.4C306.6,369.4 318.8,370.7 331.7,381.0C332.2,381.4 332.8,381.8 333.3,382.2C336.3,384.6 339.3,387.0 342.3,389.4C344.6,391.3 346.9,393.1 349.2,394.9C350.2,395.7 351.2,396.5 352.0,397.3C351.9,399.3 351.0,400.7 350.0,402.3C349.9,402.6 349.7,402.8 349.6,403.1C349.2,403.7 348.9,404.2 348.6,404.8C347.7,406.2 346.8,407.7 346.0,409.1C345.8,409.4 345.6,409.7 345.5,410.0C337.8,423.1 337.8,423.1 338.8,428.7C339.4,430.9 340.3,432.8 341.5,434.7C342.3,435.8 342.3,435.8 342.3,437.1C322.1,437.1 301.9,437.2 281.7,437.2C279.3,437.2 276.9,437.2 274.5,437.2C274.0,437.2 273.6,437.2 273.1,437.2C265.4,437.2 257.7,437.2 250.0,437.2C242.1,437.2 234.2,437.2 226.3,437.2C221.5,437.2 216.6,437.2 211.7,437.2C208.4,437.2 205.0,437.2 201.7,437.2C199.8,437.2 197.8,437.2 195.9,437.2C164.0,437.3 164.0,437.3 154.4,428.3C150.1,423.8 148.1,418.0 148.1,411.9C148.2,408.3 149.0,405.1 150.0,401.8C150.2,401.2 150.4,400.7 150.5,400.1C153.3,391.4 157.9,383.2 162.1,375.2C162.3,374.7 162.6,374.2 162.8,373.7C162.9,373.5 162.9,373.5 163.5,372.4C163.7,372.1 163.9,371.7 164.1,371.3C165.1,369.5 165.8,369.4 167.7,369.4Z';
+  'M62.5,358.5C62.9,358.4 63.3,358.4 63.7,358.3C63.9,358.3 63.9,358.3 65.0,358.2C65.4,358.2 65.9,358.1 66.4,358.1C67.6,357.9 68.9,357.8 70.2,357.7C71.5,357.5 72.9,357.4 74.2,357.2C76.9,356.9 79.6,356.7 82.2,356.4C84.4,356.2 86.6,355.9 88.7,355.7C88.9,355.7 88.9,355.7 89.7,355.6C90.3,355.5 90.9,355.5 91.6,355.4C97.5,354.8 103.4,354.2 109.2,353.6C114.3,353.0 119.3,352.5 124.4,352.0C130.2,351.3 136.1,350.7 142.0,350.1C142.6,350.0 143.2,350.0 143.8,349.9C144.0,349.9 144.0,349.9 144.8,349.8C146.9,349.6 149.1,349.4 151.3,349.1C153.9,348.9 156.6,348.6 159.2,348.3C160.5,348.2 161.9,348.0 163.2,347.9C176.5,346.5 186.6,346.6 198.1,353.8C198.5,354.1 199.0,354.4 199.5,354.7C202.2,356.4 204.8,358.1 207.5,359.9C209.5,361.2 211.6,362.5 213.6,363.8C214.5,364.3 215.4,364.9 216.2,365.5C216.2,367.1 215.6,368.3 214.9,369.8C214.8,370.0 214.7,370.2 214.6,370.5C214.4,371.0 214.2,371.4 213.9,371.9C213.3,373.2 212.8,374.5 212.2,375.7C212.1,376.0 212.0,376.2 211.9,376.5C206.7,387.9 206.7,387.9 208.0,392.4C208.7,394.1 209.6,395.6 210.8,397.0C211.5,397.9 211.5,397.9 211.6,399.0C195.0,400.7 178.4,402.5 161.9,404.3C159.9,404.5 157.9,404.7 156.0,404.9C155.6,404.9 155.2,405.0 154.8,405.0C148.5,405.7 142.2,406.3 135.9,407.0C129.4,407.7 122.9,408.4 116.4,409.1C112.4,409.5 108.5,409.9 104.5,410.3C101.7,410.6 99.0,410.9 96.2,411.2C94.6,411.4 93.1,411.5 91.5,411.7C65.3,414.5 65.3,414.5 56.7,407.9C52.7,404.7 50.6,400.0 50.1,395.0C49.9,392.1 50.2,389.4 50.8,386.6C50.9,386.1 51.0,385.6 51.1,385.2C52.5,377.8 55.7,370.7 58.4,363.7C58.5,363.3 58.7,362.9 58.9,362.5C58.9,362.3 58.9,362.3 59.3,361.3C59.4,361.0 59.6,360.7 59.7,360.3C60.4,358.8 60.9,358.6 62.5,358.5Z';
 export const SEAHAWKS_HELMET_HAWK_EYE_PATH =
-  'M445.7,338.1C448.3,338.4 450.6,338.9 453.0,339.8C453.3,339.9 453.6,340.0 454.0,340.1C456.2,341.0 456.2,341.0 456.8,342.1C456.8,343.0 456.8,343.0 456.4,344.4C455.7,346.8 455.6,348.8 456.9,351.0C458.8,353.4 460.9,354.7 463.9,355.4C470.0,356.0 474.3,354.9 479.3,351.2C480.8,350.8 482.0,351.6 483.3,352.3C483.3,353.7 483.1,354.6 482.2,355.7C479.1,358.7 474.8,360.0 470.5,360.2C470.3,360.2 470.3,360.2 469.3,360.3C460.9,360.4 449.8,360.3 442.7,355.4C440.8,353.4 440.3,352.1 440.3,349.5C440.8,345.3 443.4,341.5 445.7,338.1Z';
+  'M287.9,308.8C290.1,308.8 292.0,309.1 294.0,309.6C294.3,309.7 294.6,309.7 294.9,309.8C296.8,310.3 296.8,310.3 297.4,311.1C297.4,311.9 297.4,311.9 297.2,313.1C296.9,315.1 297.0,316.8 298.2,318.5C300.0,320.3 301.8,321.2 304.3,321.4C309.4,321.5 312.8,320.1 316.6,316.7C317.8,316.2 318.8,316.8 320.0,317.2C320.1,318.3 320.0,319.1 319.4,320.1C317.1,322.9 313.7,324.3 310.1,324.8C310.0,324.9 310.0,324.9 309.1,325.0C302.3,325.8 293.2,326.7 286.9,323.2C285.2,321.8 284.6,320.8 284.4,318.6C284.5,315.1 286.3,311.8 287.9,308.8Z';
 
 // The shoulder sweep, shared by the home and away kits: a band tapering to a point near the
 // sternum, arcing up over the shoulder and running down the outer sleeve to the hem (y≈557, just
